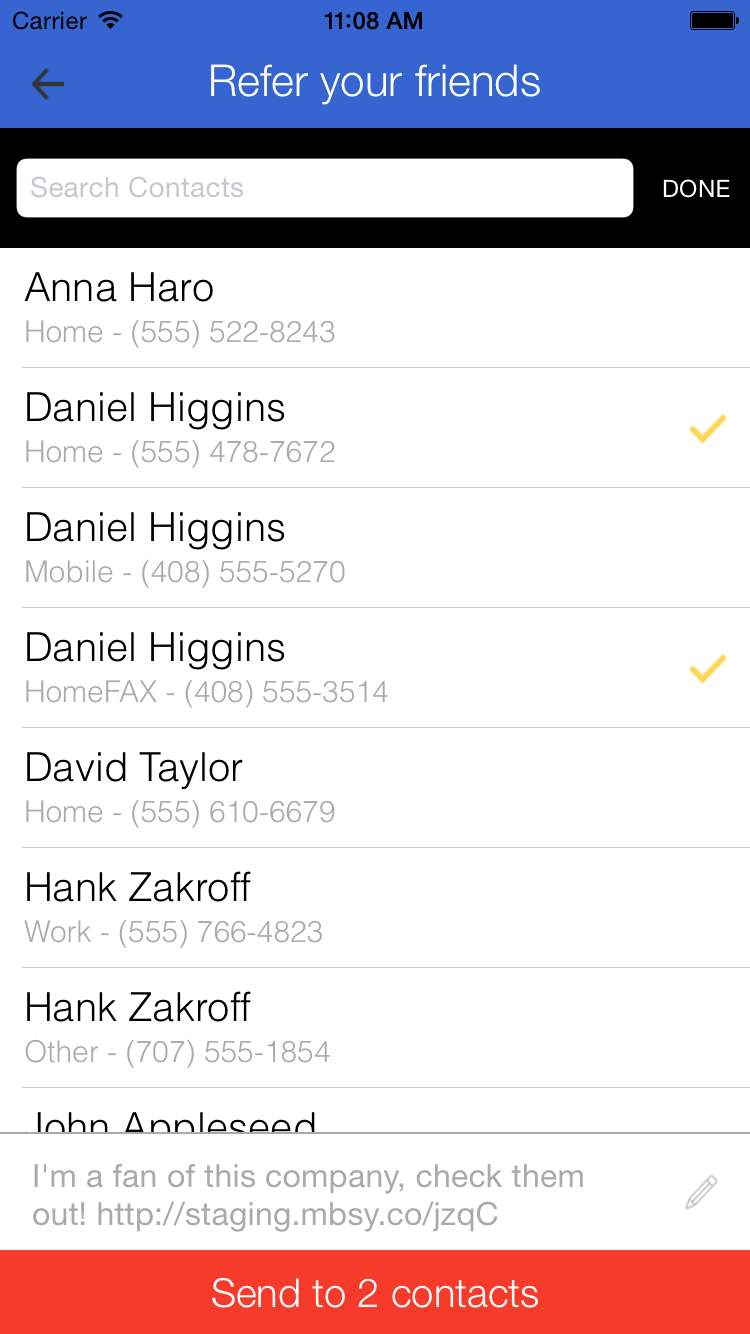
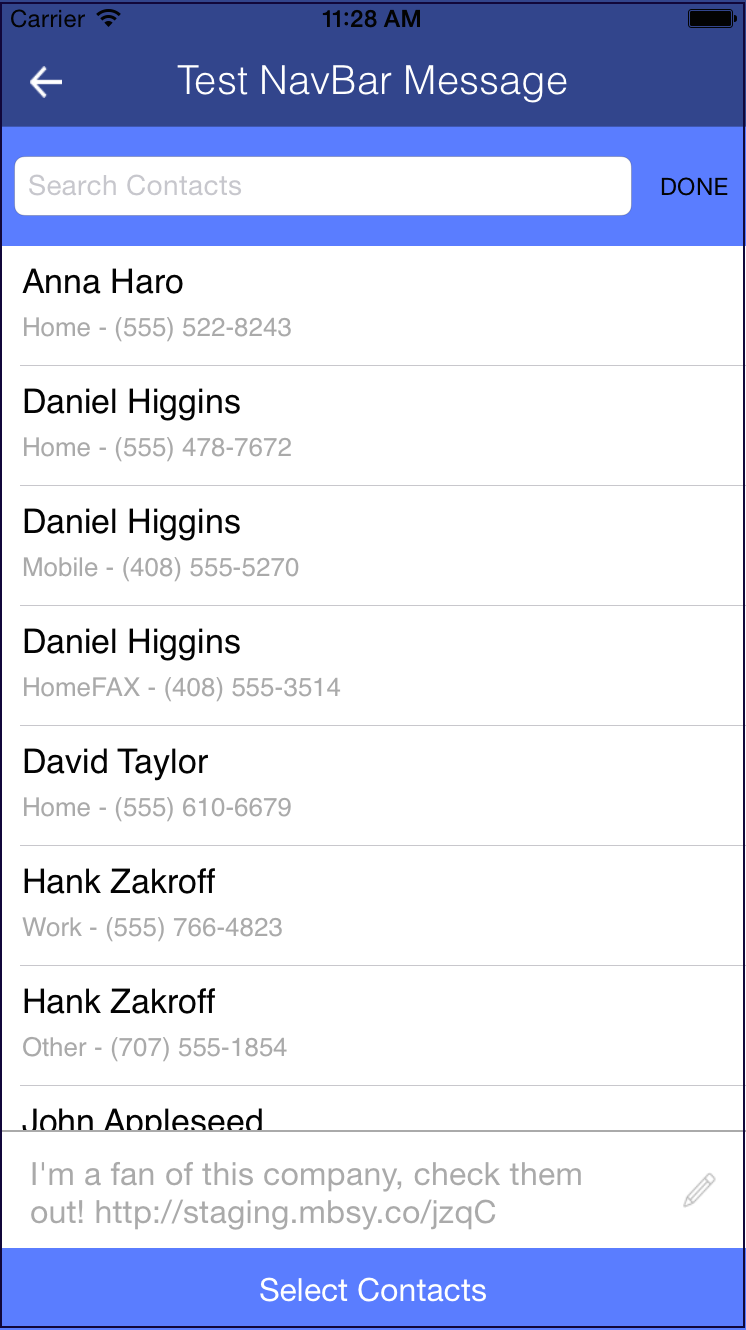
[#104199538] Add the ability to pass an image to the RAF Widget through the AmbassadorTheme.plist.  Added some test images to the Test App's image assets folder

diff --git a/Ambassador/Ambassador/AMBServiceSelector.m b/Ambassador/Ambassador/AMBServiceSelector.m
@@ -35,6 +35,8 @@
 @property (weak, nonatomic) IBOutlet UILabel *descriptionLabel;
 @property (weak, nonatomic) IBOutlet UITextField *textField;
 @property (weak, nonatomic) IBOutlet UICollectionView *collectionView;
+@property (strong, nonatomic) IBOutlet UIImageView *imgLogo;
+@property (strong, nonatomic) IBOutlet NSLayoutConstraint *imgLogoHeight;
 
 
 @property (strong, nonatomic) NSMutableArray *services;
@@ -151,10 +153,10 @@ float const CELL_CORNER_RADIUS = CELL_BORDER_WIDTH;
     
     DLog(@"%@", self.shortURL);
 
-    self.waitViewTimer = [NSTimer scheduledTimerWithTimeInterval:10.0 target:self selector:@selector(alertForNetworkTimeout) userInfo:nil repeats:NO];
+    self.waitViewTimer = [NSTimer scheduledTimerWithTimeInterval:15.0 target:self selector:@selector(alertForNetworkTimeout) userInfo:nil repeats:NO];
     AMBIdentify *identify = [[AMBIdentify alloc] init];
     [identify sendIdentifyData];
-    [self setUpColorTheme];
+    [self setUpTheme];
 }
 
 - (void)alertForNetworkTimeout
@@ -374,7 +376,7 @@ float const CELL_CORNER_RADIUS = CELL_BORDER_WIDTH;
     });
 }
 
-- (void)setUpColorTheme {
+- (void)setUpTheme {
     // Setup NAV BAR
     self.navigationController.navigationBar.barTintColor = [[AMBThemeManager sharedInstance] colorForKey:NavBarColor];
     self.navigationController.navigationBar.titleTextAttributes = @{
@@ -391,6 +393,12 @@ float const CELL_CORNER_RADIUS = CELL_BORDER_WIDTH;
     self.titleLabel.font = [[AMBThemeManager sharedInstance] fontForKey:RAFWelcomeTextFont];
     self.descriptionLabel.textColor = [[AMBThemeManager sharedInstance] colorForKey:RAFDescriptionTextColor];
     self.descriptionLabel.font = [[AMBThemeManager sharedInstance] fontForKey:RAFDescriptionTextFont];
+    
+    if ([[AMBThemeManager sharedInstance] imageForKey:RAFLogo].imageAsset) {
+        self.imgLogo.image = [[AMBThemeManager sharedInstance] imageForKey:RAFLogo];
+    } else {
+        self.imgLogoHeight.constant = 0;
+    }
 }
 
 

diff --git a/Ambassador/Ambassador/AMBThemeManager.m b/Ambassador/Ambassador/AMBThemeManager.m
@@ -71,6 +71,15 @@ static NSDictionary * valuesDic;
     return [UIFont systemFontOfSize:11];
 }
 
+- (UIImage*)imageForKey:(AmbassadorImages)imageName {
+    if ([[valuesDic allKeys] containsObject:[AMBThemeManager imageEnumStringValue:imageName]] && ![[valuesDic valueForKey:[AMBThemeManager imageEnumStringValue:imageName]] isEqualToString:@""]) {
+        
+        return [UIImage imageNamed:[valuesDic valueForKey:[AMBThemeManager imageEnumStringValue:imageName]]];
+    }
+    
+    return [[UIImage alloc] init];
+}
+
 + (NSString*)colorEnumStringValue:(AmbassadorColors)enumValue {
     switch (enumValue) {
         case NavBarColor:
@@ -167,6 +176,18 @@ static NSDictionary * valuesDic;
             
         case ContactSendButtonTextFont:
             return @"ContactSendButtonTextFont";
+            break;
+            
+        default:
+            return @"Unavailable";
+            break;
+    }
+}
+
++ (NSString*)imageEnumStringValue:(AmbassadorImages)enumValue {
+    switch (enumValue) {
+        case RAFLogo:
+            return @"RAFLogo";
             break;
             
         default:

diff --git a/Ambassador/Ambassador/AMBThemeManager.h b/Ambassador/Ambassador/AMBThemeManager.h
@@ -50,11 +50,16 @@ typedef enum ambassadorFonts {
     ContactSendButtonTextFont
 } AmbassadorFonts;
 
+typedef enum ambassadorImages {
+    RAFLogo
+} AmbassadorImages;
+
 @interface AMBThemeManager : NSObject
 
 + (AMBThemeManager *)sharedInstance;
 - (UIColor*)colorForKey:(AmbassadorColors)colorName;
 - (NSString*)messageForKey:(AmbassadorMessages)messageName;
 - (UIFont*)fontForKey:(AmbassadorFonts)fontName;
+- (UIImage*)imageForKey:(AmbassadorImages)imageName;
 
 @end

diff --git a/README.md b/README.md
@@ -242,18 +242,28 @@ Any blank or incorrect values inserted into the `AmbassadorTheme.plist` will def
 * Colors - White
 * Fonts - **System Font** of size **14**
 * Messages - **"NO PLIST VALUE FOUND"**
+* Images - No image will be added
 
 The `AmbassadorTheme.plist` will come with preconfigured values looking like this:
 
-  <img src="screenShots/themePlist.png" width="1000" />
+  <img src="screenShots/themePlist.png" width="600" />
 
 This is what the default theme will look like with the preconfigured values in the `AmbassadorTheme.plist`.
 
-  <img src="screenShots/rafDemoImg.jpg" width="250" />   <img src="screenShots/contactShare.jpg" width="250"/>
+  <img src="screenShots/rafDemoImage.png" width="250" />   <img src="screenShots/contactsDemoImage.png" width="250"/>
 
-After some minor configurations, the RAF can easily be changed to look like this:
+To demonstrate how to change the default theme, here is the AmbassadorTheme.plist with some edited values:
 
-  <img src="screenShots/changedRAFScreen.png" width="250" />   <img src="screenShots/changedContactScreen.png" width="250"/>
+  <img src="screenShots/editedPlist.png" width="500" />
+
+The results from the minor changes will look like this:
+
+  <img src="screenShots/changedRAF.png" width="250" />   <img src="screenShots/changedContactScreen.png" width="250"/>
+
+You can also add an image to the RAF Widget by editing the **RAFLogo** plist value:
+* **Note**: The image you reference from the AmbassadorTheme.plist must be in your app's **Images.xcassets** folder
+
+  <img src="screenShots/logoAddPlist.png" width="500" />  <img src="screenShots/imageAddedRAF.png" width="250" />
 
 **NOTES FOR CUSTOM THEMES**
 
